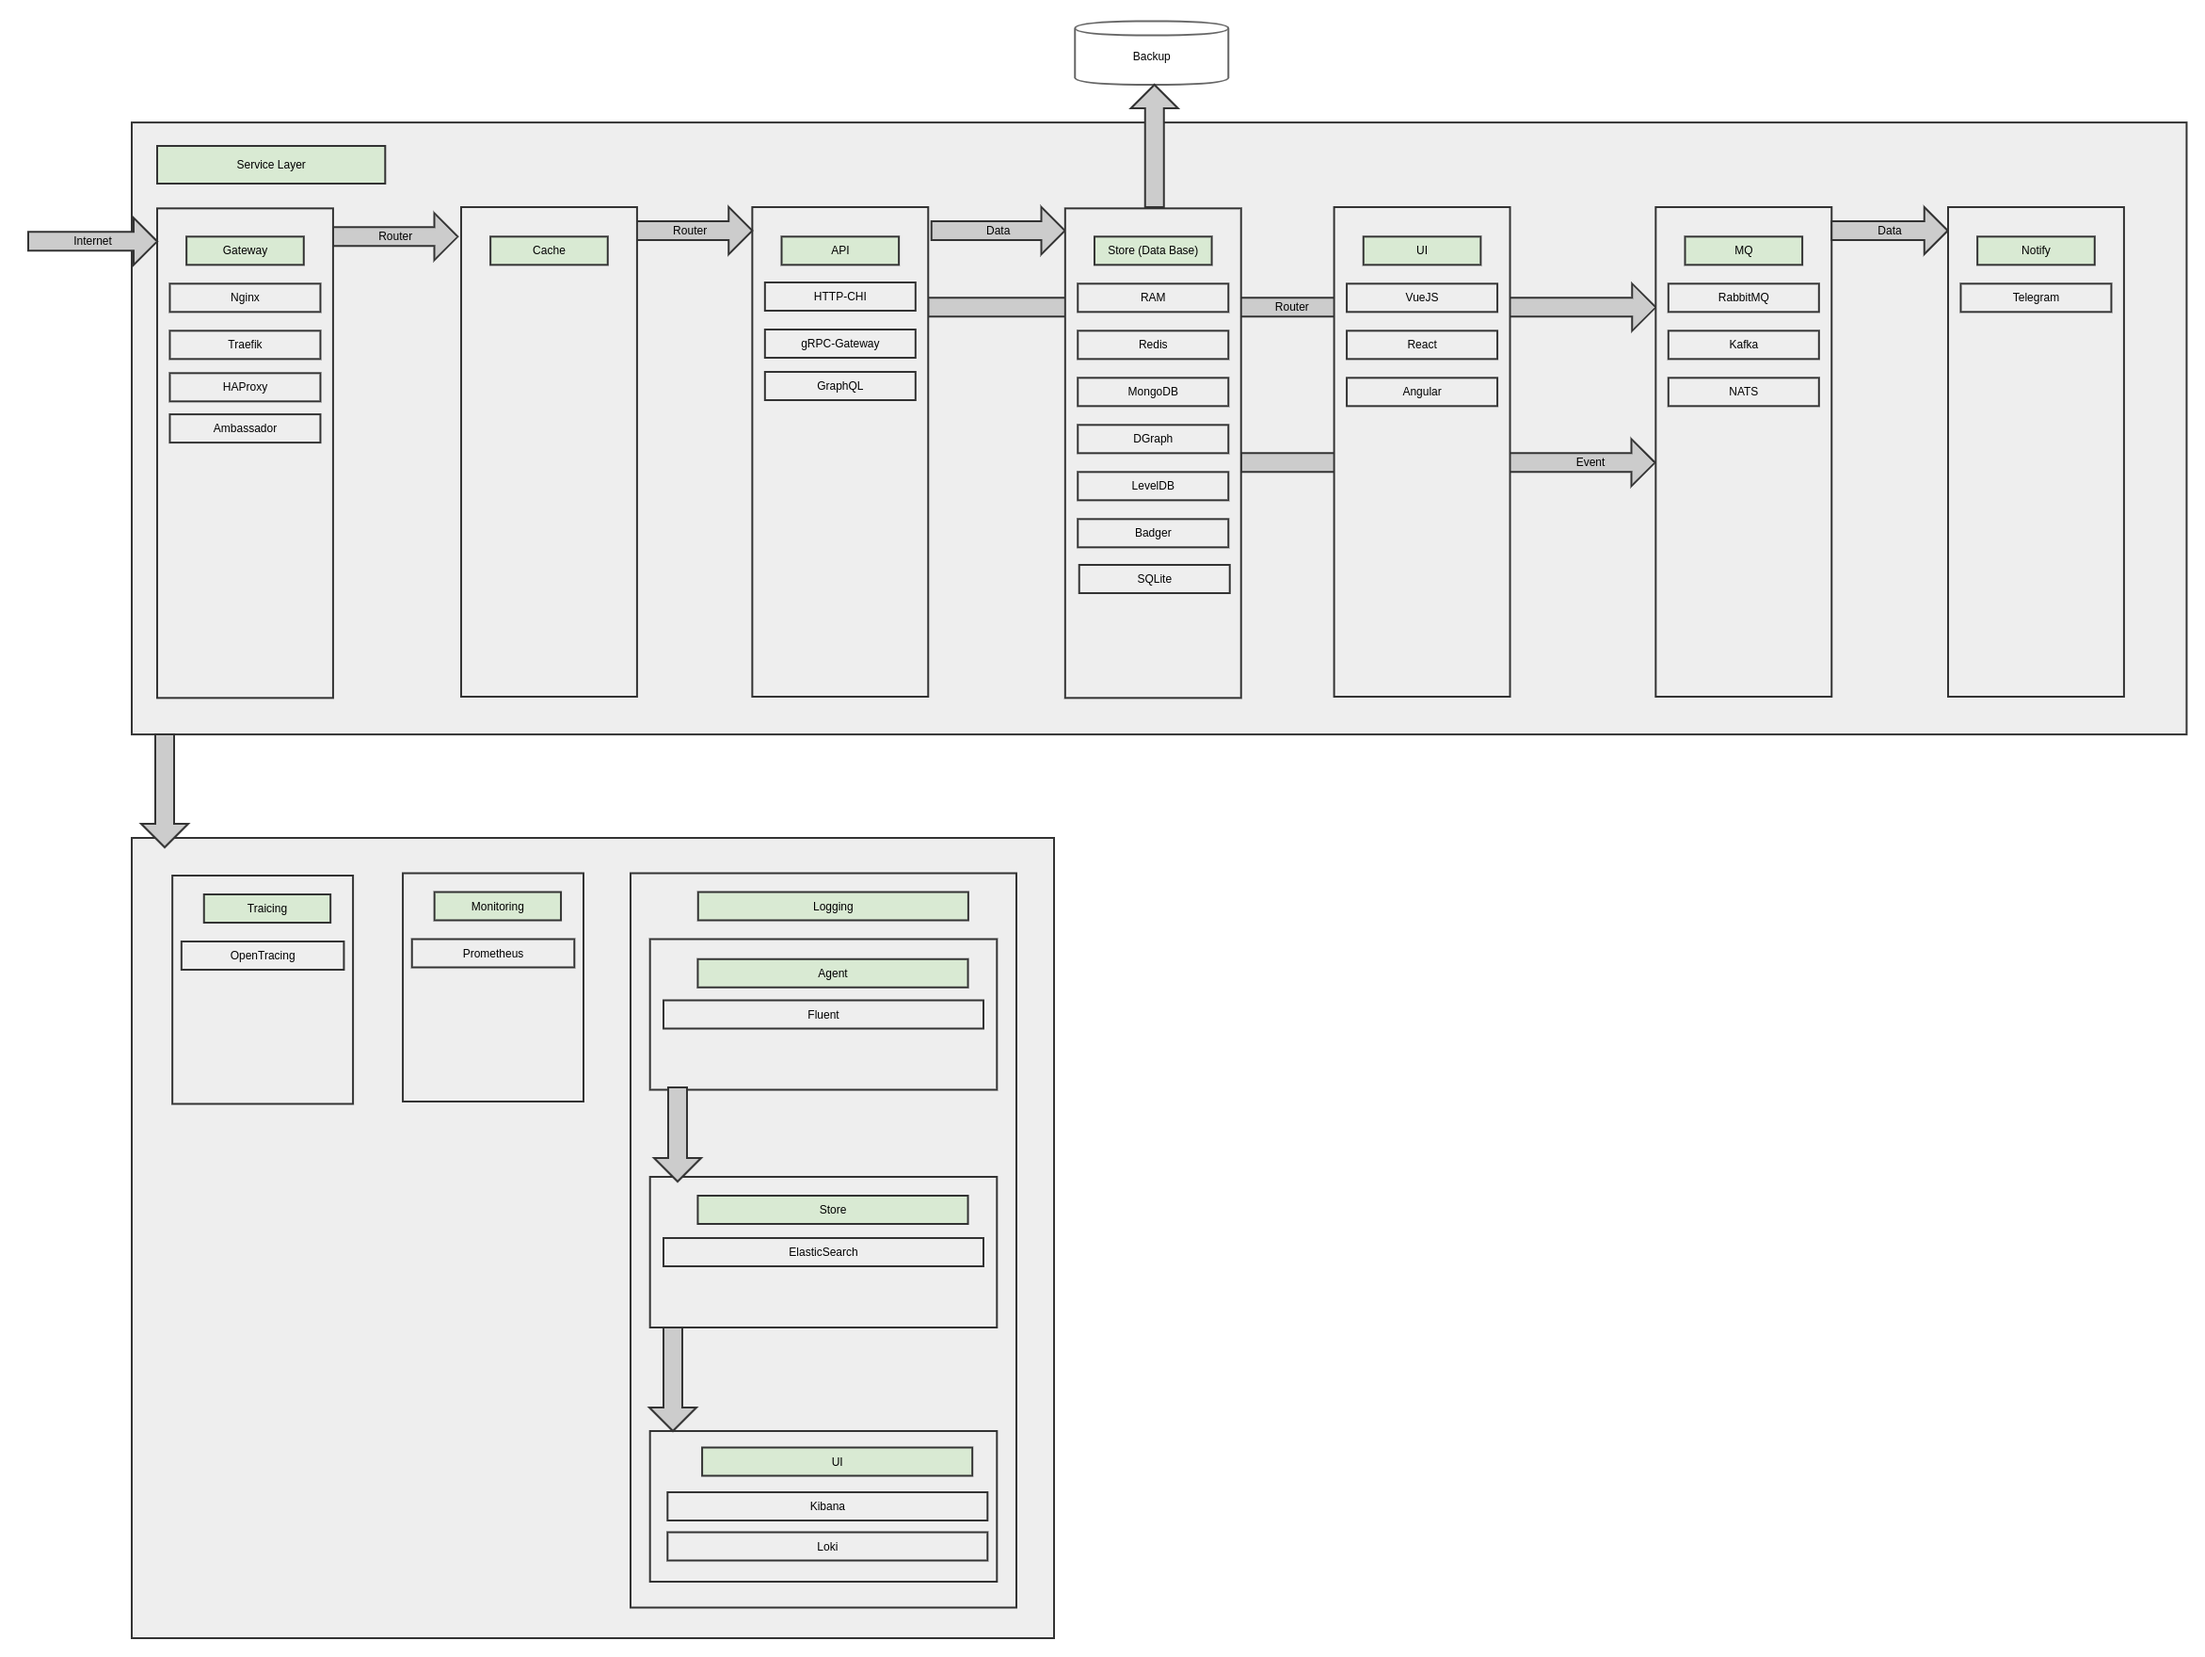
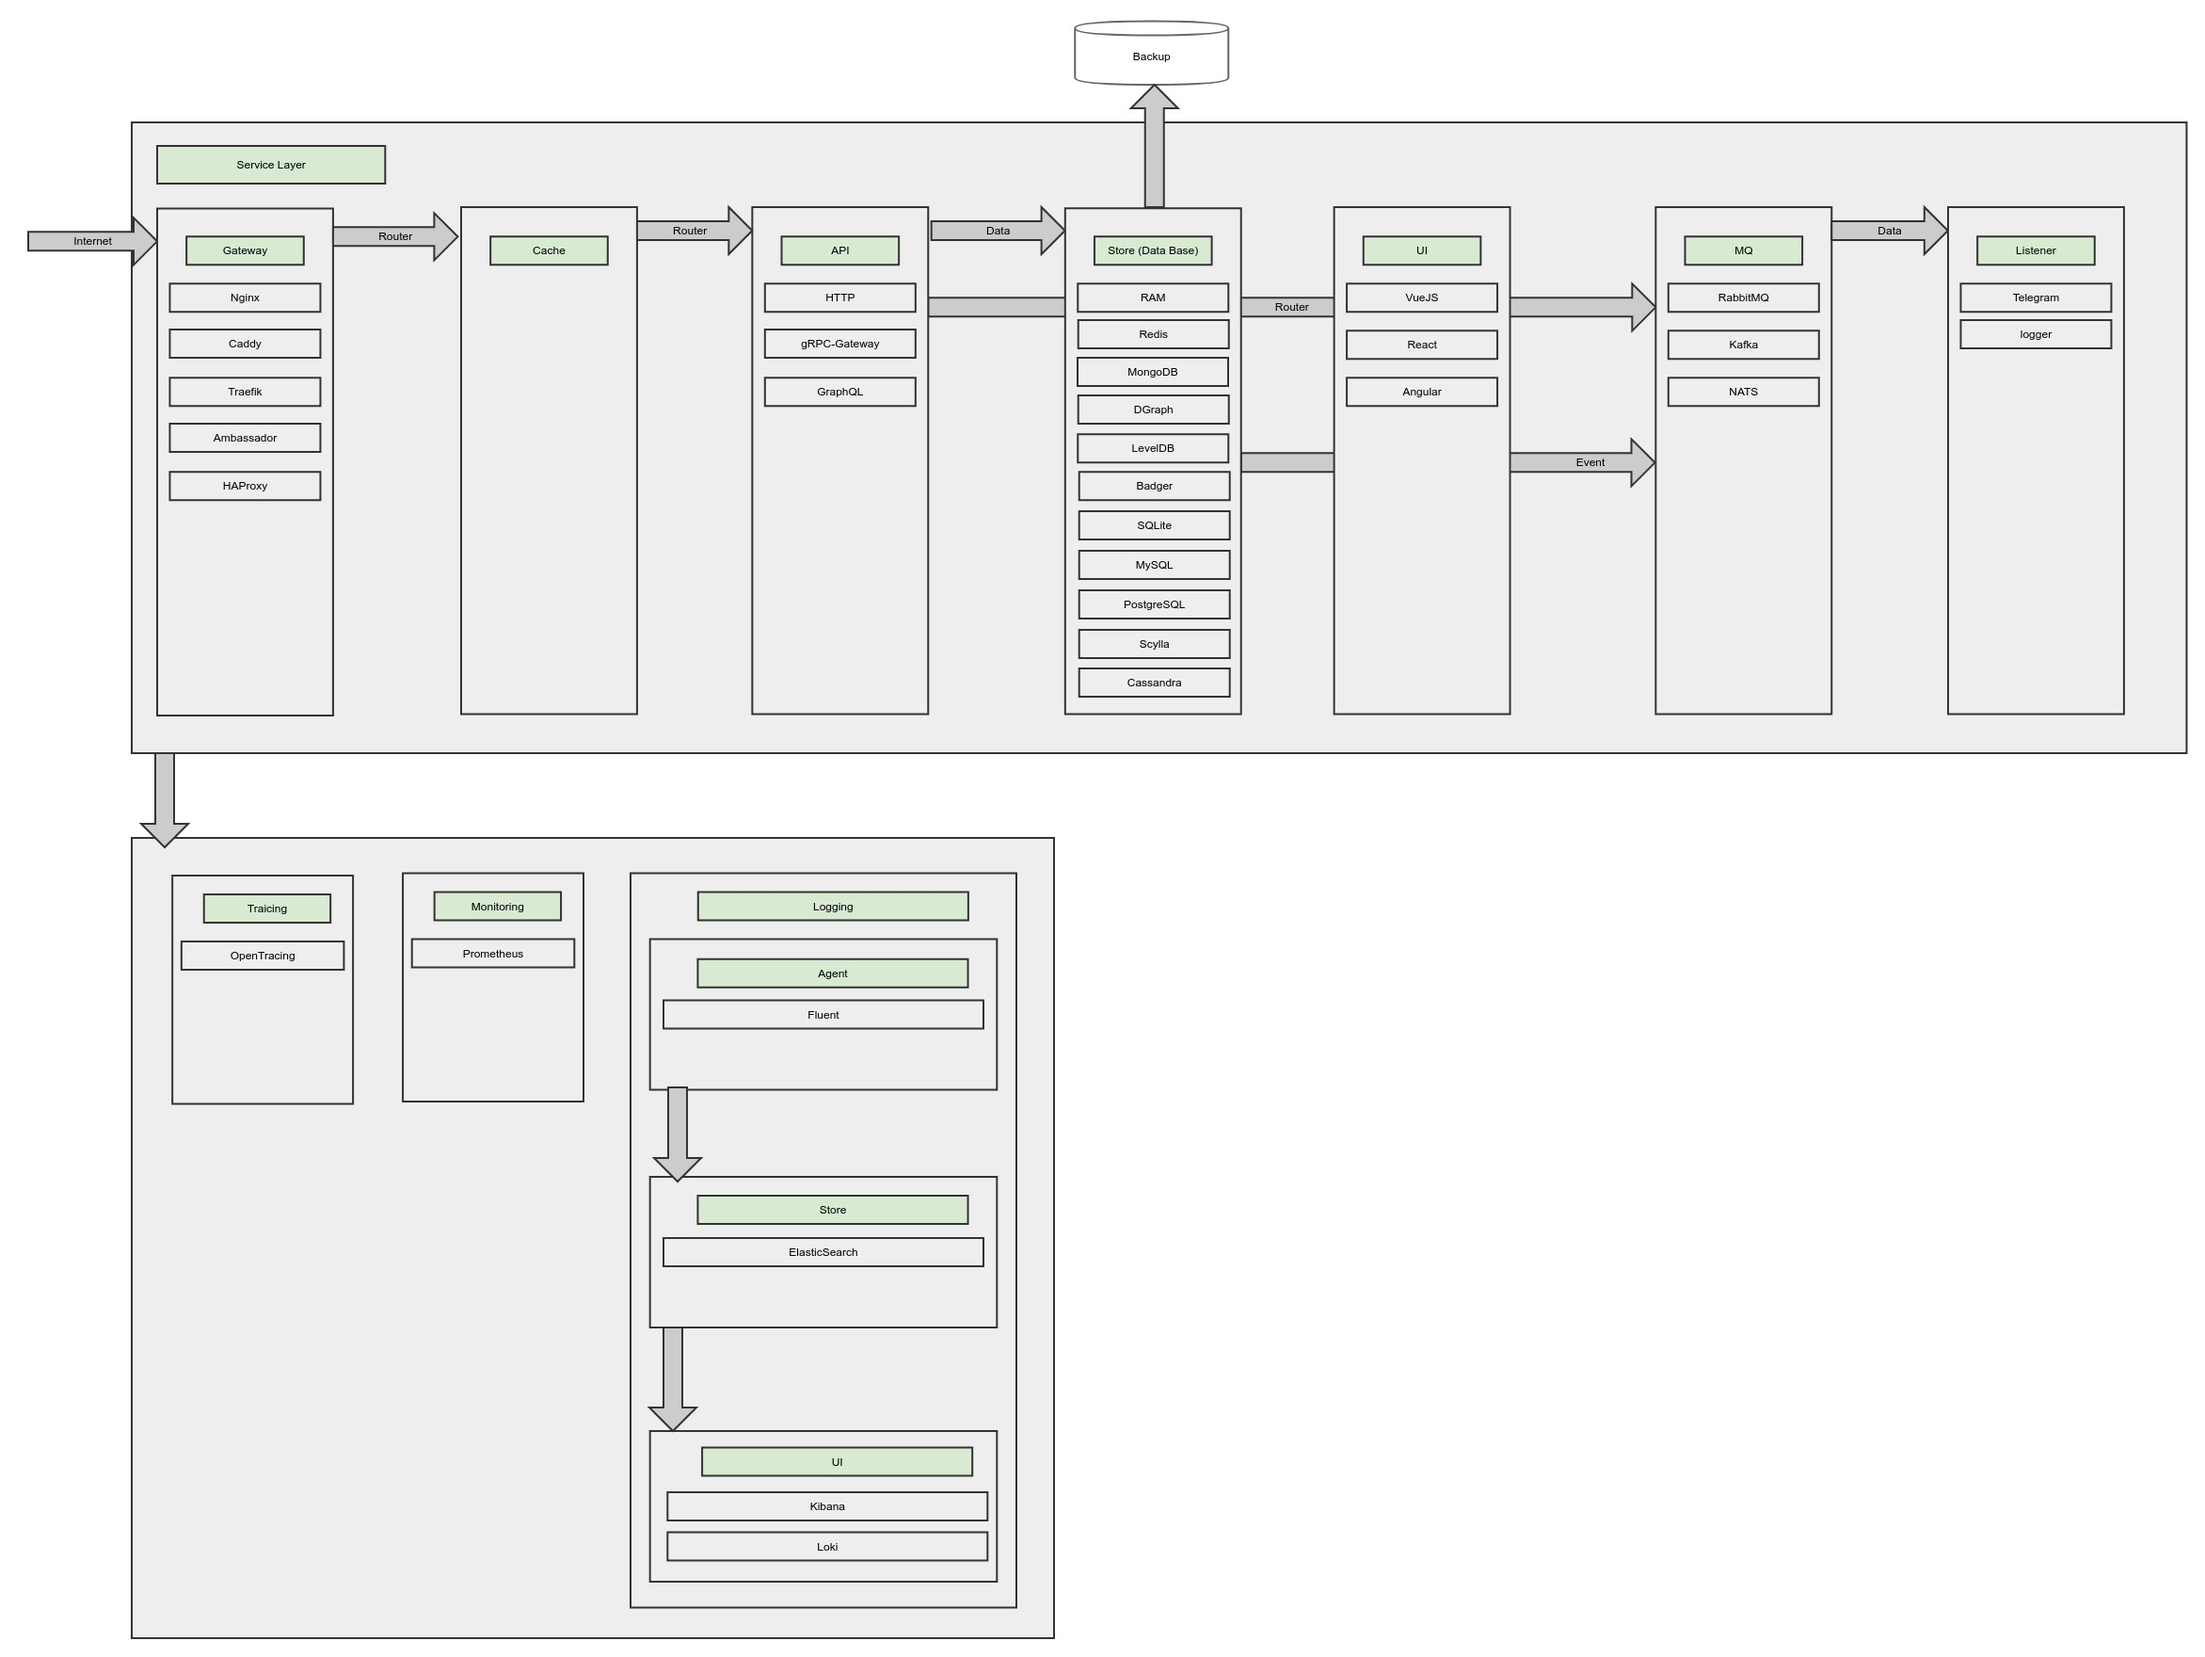
update readme and caddy config

diff --git a/README.md b/README.md
@@ -44,6 +44,8 @@ Add `127.0.0.1 *.local` to your `/etc/hosts`
 
 ### HTTP API
 
+![arhitecture.json](./docs/arhitecture.png)
+
 + Import [Postman link](./docs/shortlink.postman_collection.json) for
   test HTTP API
 
